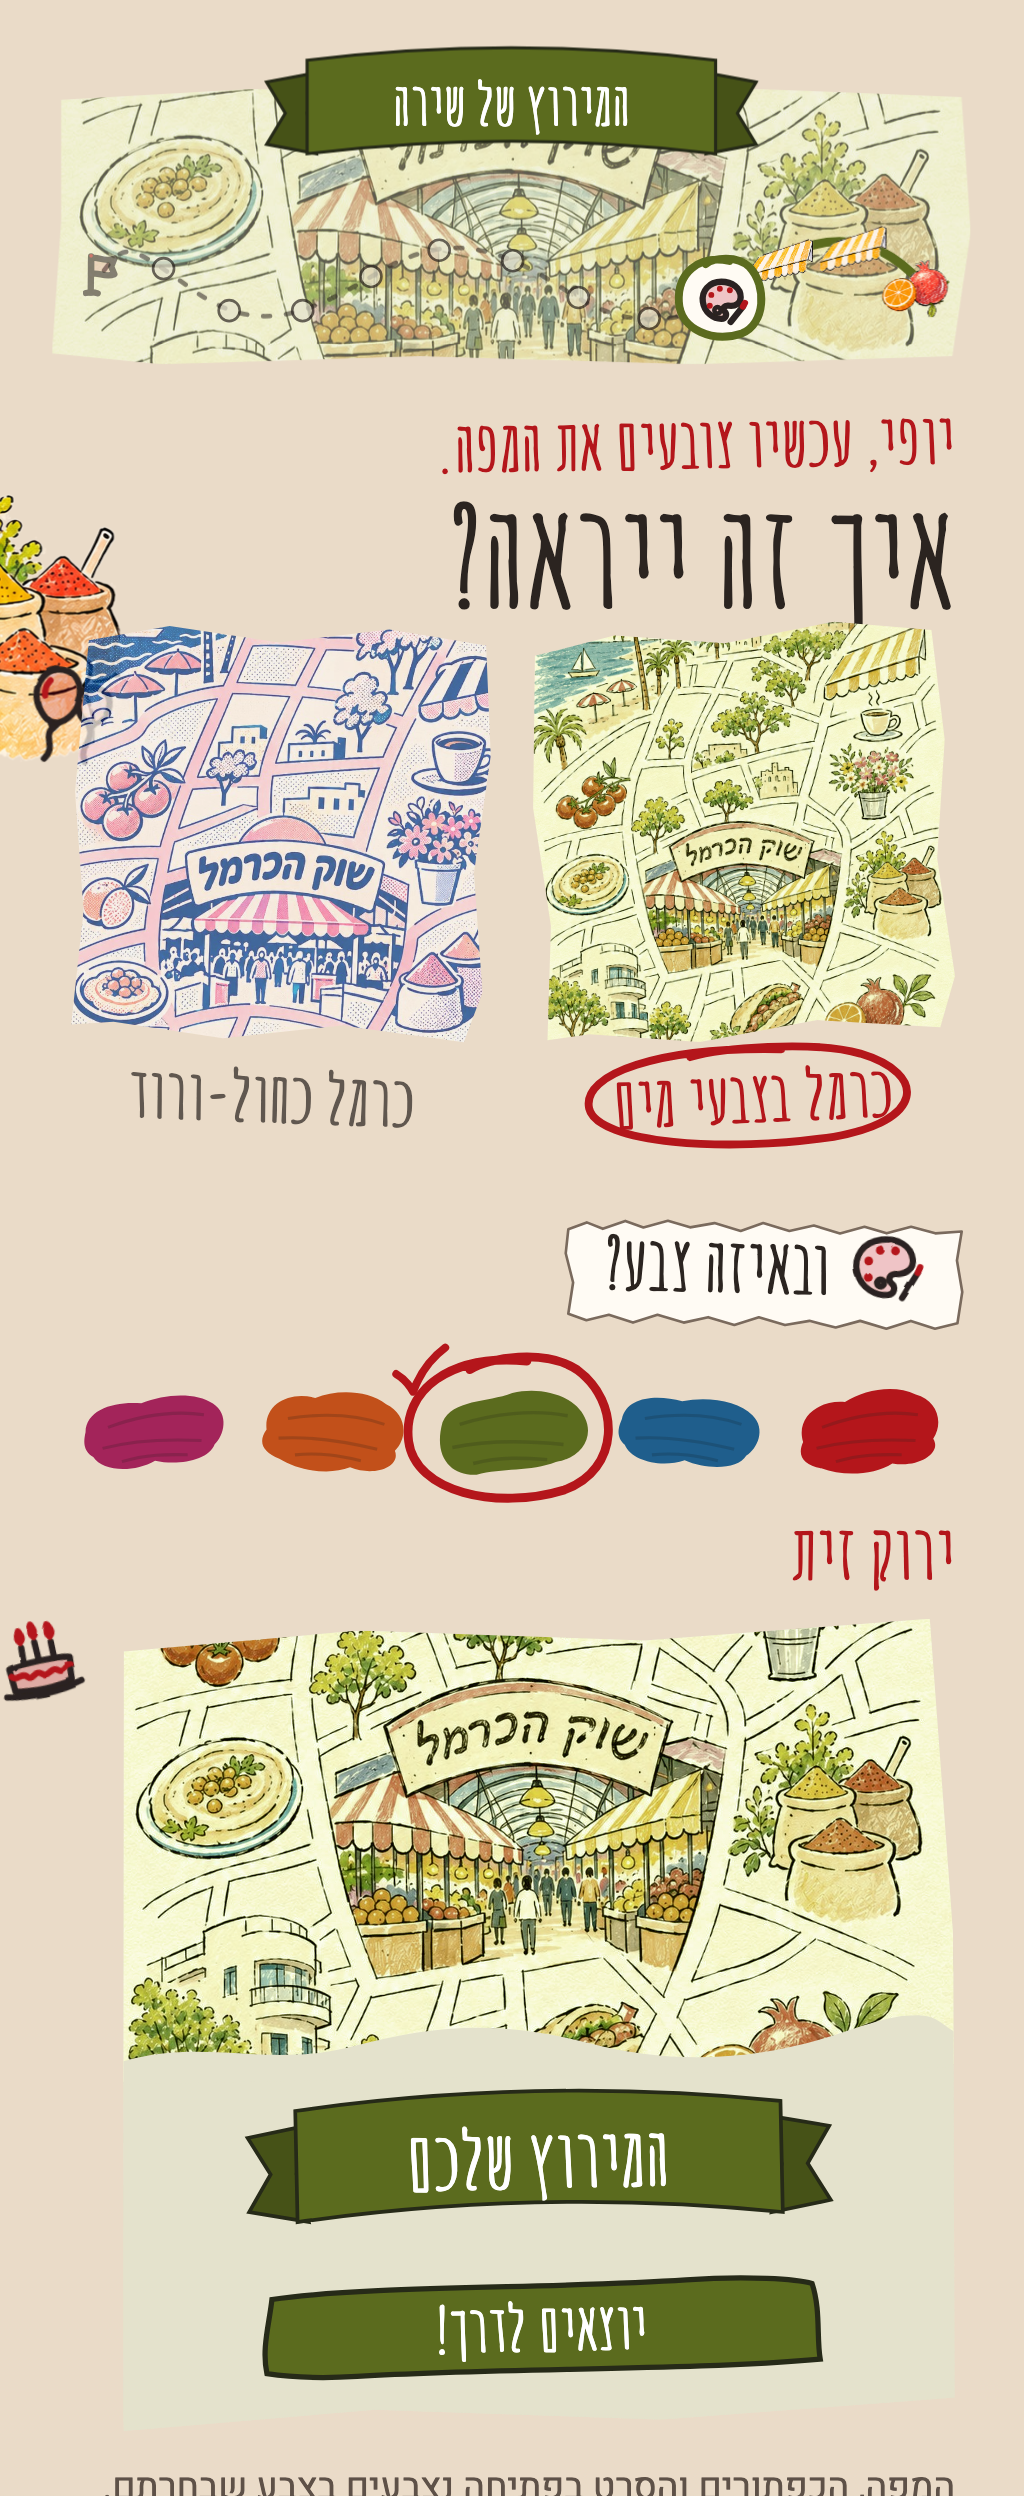
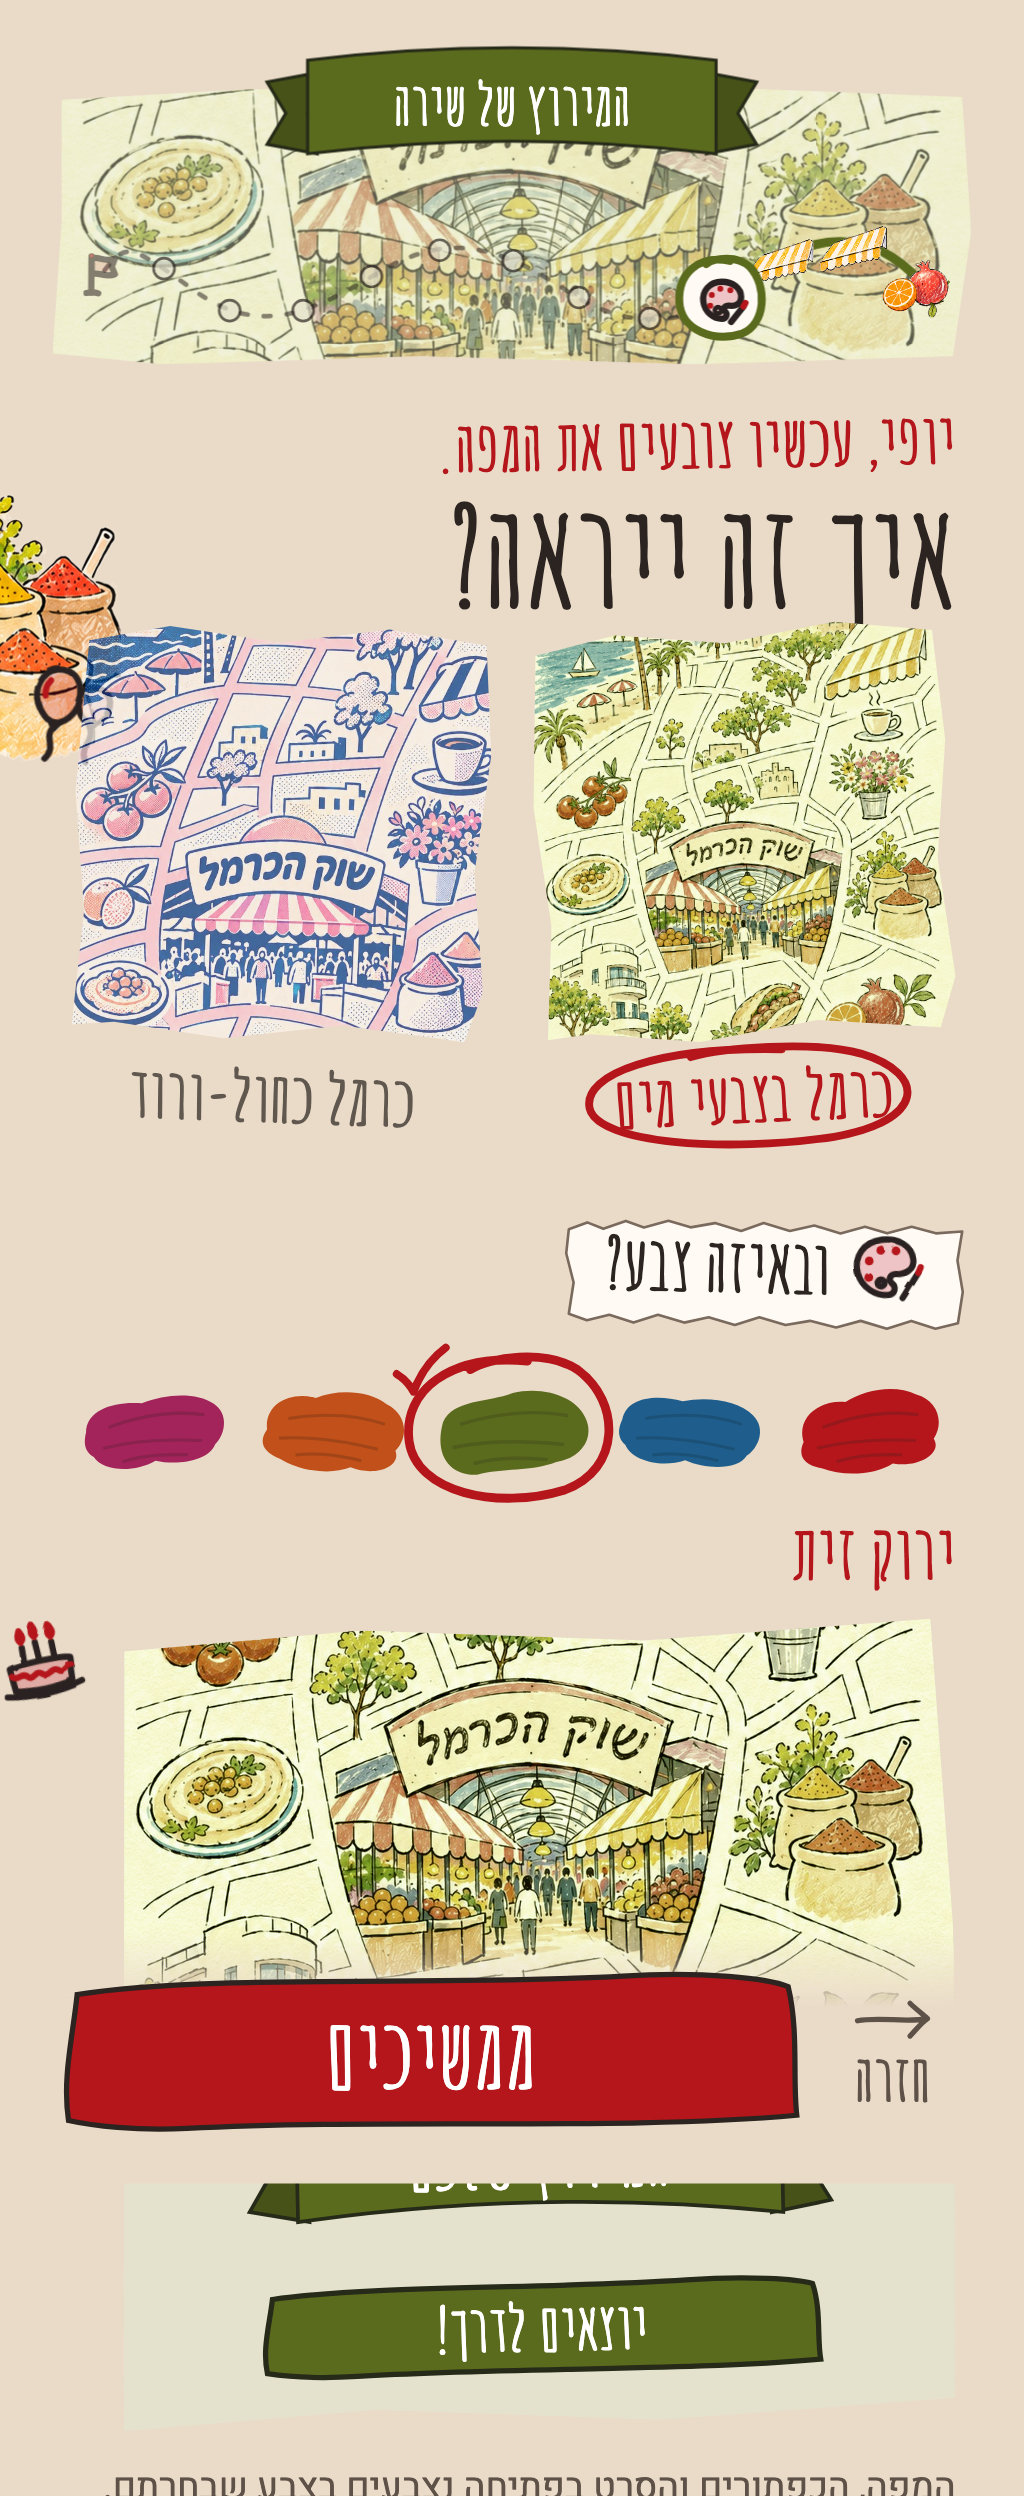
Build flow: sticky back and next on phones (overflow clip), screenshots

diff --git a/tests/e2e/desktop.spec.ts b/tests/e2e/desktop.spec.ts
@@ -182,7 +182,11 @@ test.describe('phone', () => {
     const h = await box(page.locator('main.page h1'))
     expect(s.y + s.height).toBeLessThanOrEqual(h.y)
     expect(s.height).toBeLessThan(160)
-    // Back and next stay at the bottom of the window.
+    // Back and next stay at the bottom of the window, also when the stage is taller than it.
     expect(await page.locator('.stage-nav').evaluate((el) => getComputedStyle(el).position)).toBe('sticky')
+    await page.setViewportSize({ width: 390, height: 480 })
+    const nav = await box(page.locator('.stage-nav'))
+    expect(nav.y + nav.height).toBeLessThanOrEqual(481)
+    await expect(page.locator('.stage-nav .brush')).toBeInViewport({ ratio: 1 })
   })
 })

diff --git a/src/web/site/site.css b/src/web/site/site.css
@@ -19,7 +19,9 @@
 html,
 body {
   background: var(--bg);
-  overflow-x: hidden;
+  /* Clip, not hidden: hidden makes the body a scroll box, and the sticky bottom buttons would
+     never stick. */
+  overflow-x: clip;
 }
 body {
   font-family: Heebo, sans-serif;
